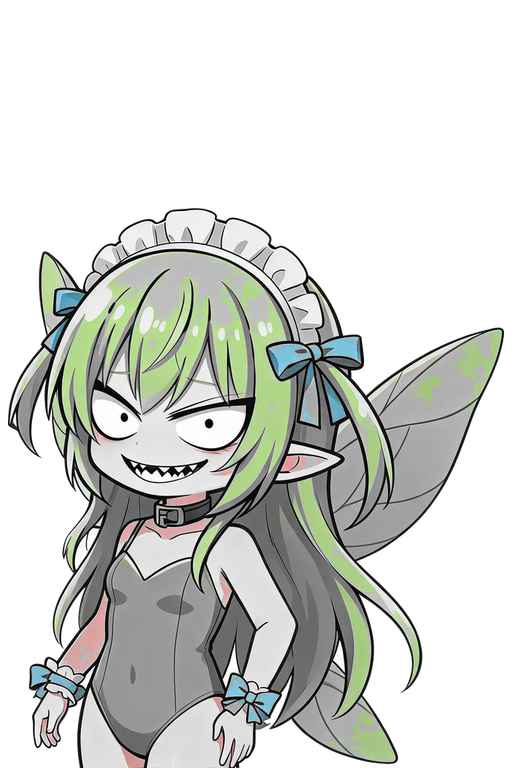
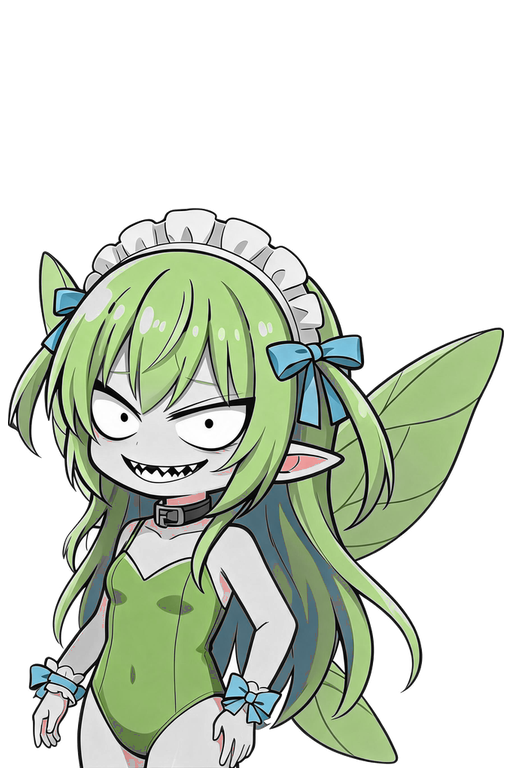
art: 玛丽苏 6 表情定版（绿色精灵造型）+ 调色工具支持绿色门限

diff --git a/tools/unify_palette.py b/tools/unify_palette.py
@@ -41,11 +41,11 @@ def unify(src, dst, gray_steps=GRAY_STEPS):
 
             # 红/青：按**彩度**判断，不用 HLS 饱和度（接近白色时 HLS 饱和度会虚高，
             # 浅粉色腮红会被误判成高饱和红色）
-            near_red = deg <= 40 or deg >= 320
-            near_cyan = abs(deg - CYAN_HUE) <= 40
-            near_green = abs(deg - GREEN_HUE) <= 40
+            near_red = deg <= 14 or deg >= 346
+            near_cyan = abs(deg - CYAN_HUE) <= 45
+            near_green = abs(deg - GREEN_HUE) <= 55
 
-            if near_red and chroma >= 0.20:
+            if near_red and chroma >= 0.25:
                 rr, gg, bb = colorsys.hls_to_rgb(0.0, ll, ss)
                 px[x, y] = (int(rr * 255 + 0.5), int(gg * 255 + 0.5), int(bb * 255 + 0.5), a)
                 locked += 1

diff --git a/tools/force_palette.py b/tools/force_palette.py
@@ -76,10 +76,9 @@ def force(src, dst):
                 px[x, y] = to_gray(r, g, b) + (a,)
                 grays += 1
             else:
-                target = nearest_hue(deg)
-                rr, gg, bb = colorsys.hls_to_rgb(target / 360.0, ll, ss)
-                px[x, y] = (int(rr * 255 + 0.5), int(gg * 255 + 0.5), int(bb * 255 + 0.5), a)
-                snapped += 1
+                # 高彩度但色相不对：不要"拧到最近色相"（会把肤色拧成红色），统一去色
+                px[x, y] = to_gray(r, g, b) + (a,)
+                grays += 1
 
     im.save(dst)
     print('压色完成: {} -> {}  去色 {} px / 归位 {} px'.format(src, dst, grays, snapped))
